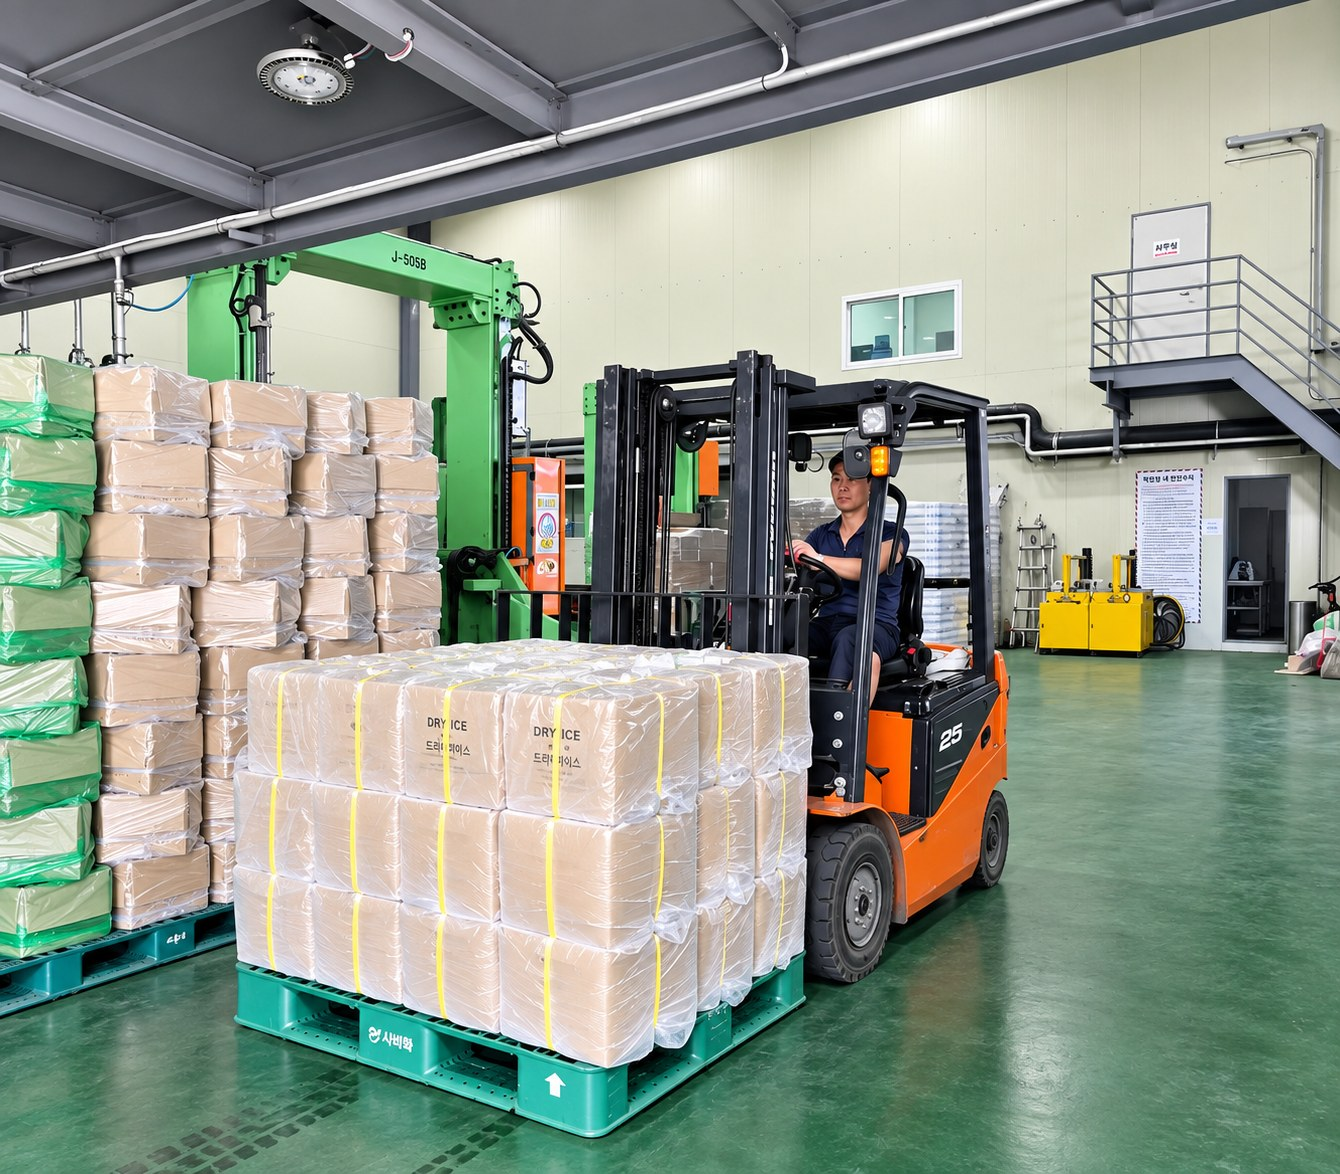
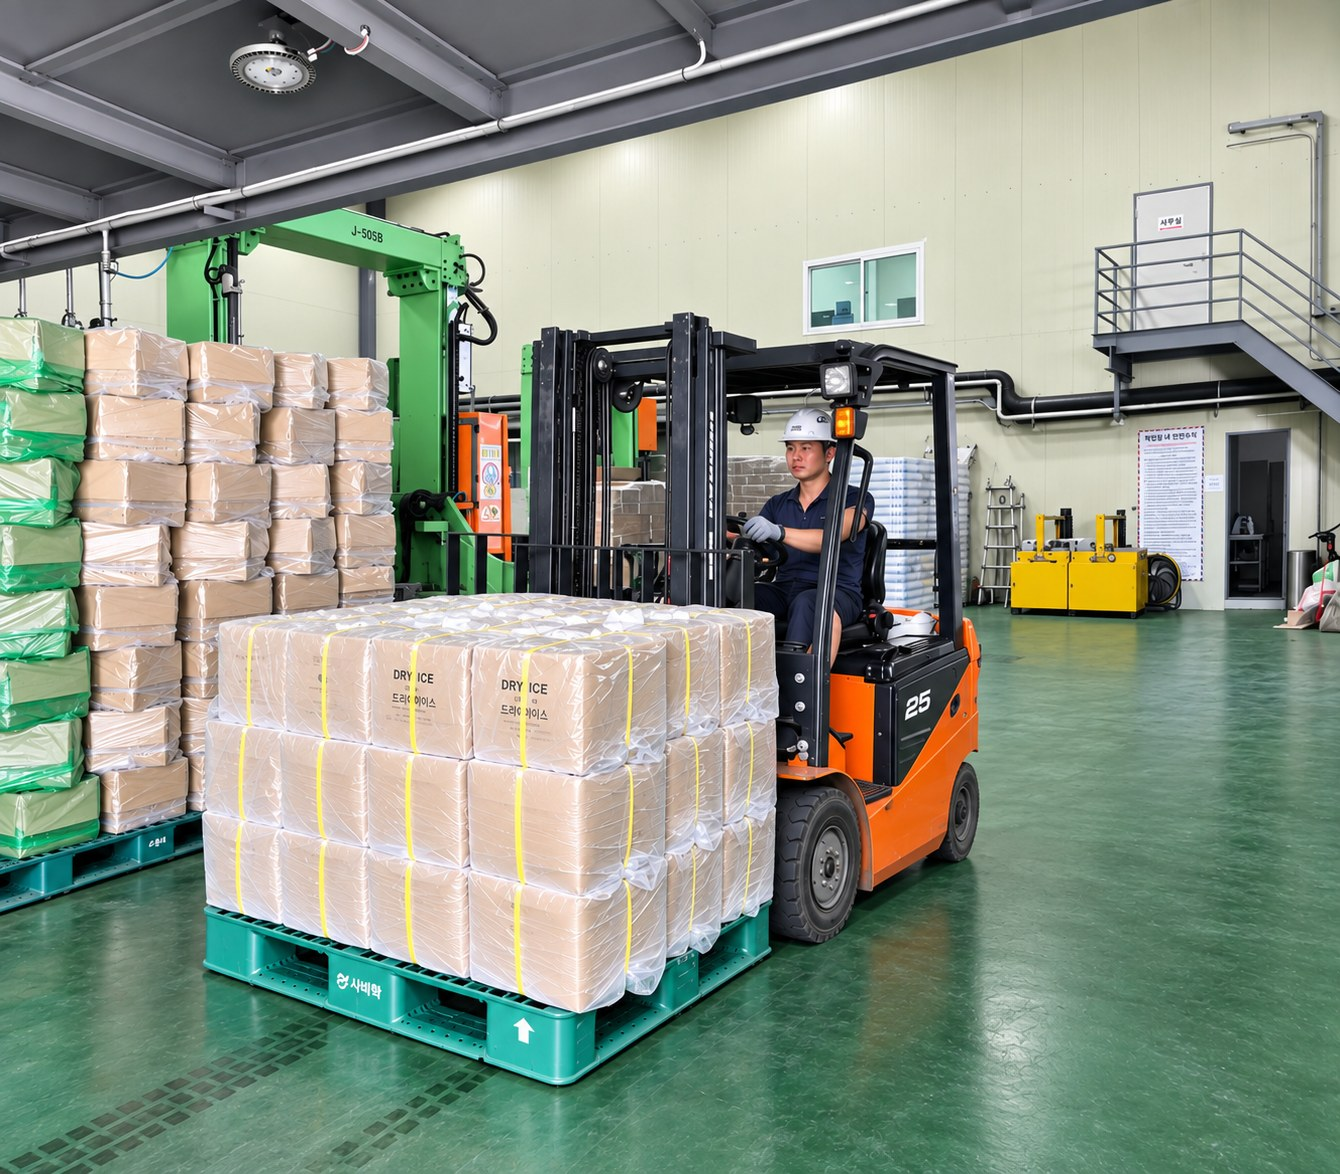
드라이아이스 블록 라인업 8번째 슬라이드를 새 지게차 운반 사진으로 교체(기존 덮어쓰기). ice-block-7.jpg ?v=20260913b

diff --git a/products-ice.html b/products-ice.html
@@ -227,7 +227,7 @@
             <img class="ice-slide" src="assets/images/site/ice-block-4.jpg?v=20260913" alt="블록 드라이아이스 생산 설비·작업장 전경" loading="lazy">
             <img class="ice-slide" src="assets/images/site/ice-block-5.jpg?v=20260913" alt="블록 드라이아이스 완제품 포장·적재" loading="lazy">
             <img class="ice-slide" src="assets/images/site/ice-block-6.jpg?v=20260913" alt="블록 드라이아이스 자동 적재·팔레타이징" loading="lazy">
-            <img class="ice-slide" src="assets/images/site/ice-block-7.jpg?v=20260913" alt="드라이아이스 팔레트 지게차 입·출고" loading="lazy">
+            <img class="ice-slide" src="assets/images/site/ice-block-7.jpg?v=20260913b" alt="드라이아이스 팔레트 지게차 운반" loading="lazy">
             <img class="ice-slide" src="assets/images/site/ice-block-8.jpg?v=20260913" alt="드라이아이스 박스 팔레트 랩핑 완료·출하 대기" loading="lazy">
             <button type="button" class="ice-slideshow__arrow ice-slideshow__arrow--prev" aria-label="이전 사진">&#8249;</button>
             <button type="button" class="ice-slideshow__arrow ice-slideshow__arrow--next" aria-label="다음 사진">&#8250;</button>
